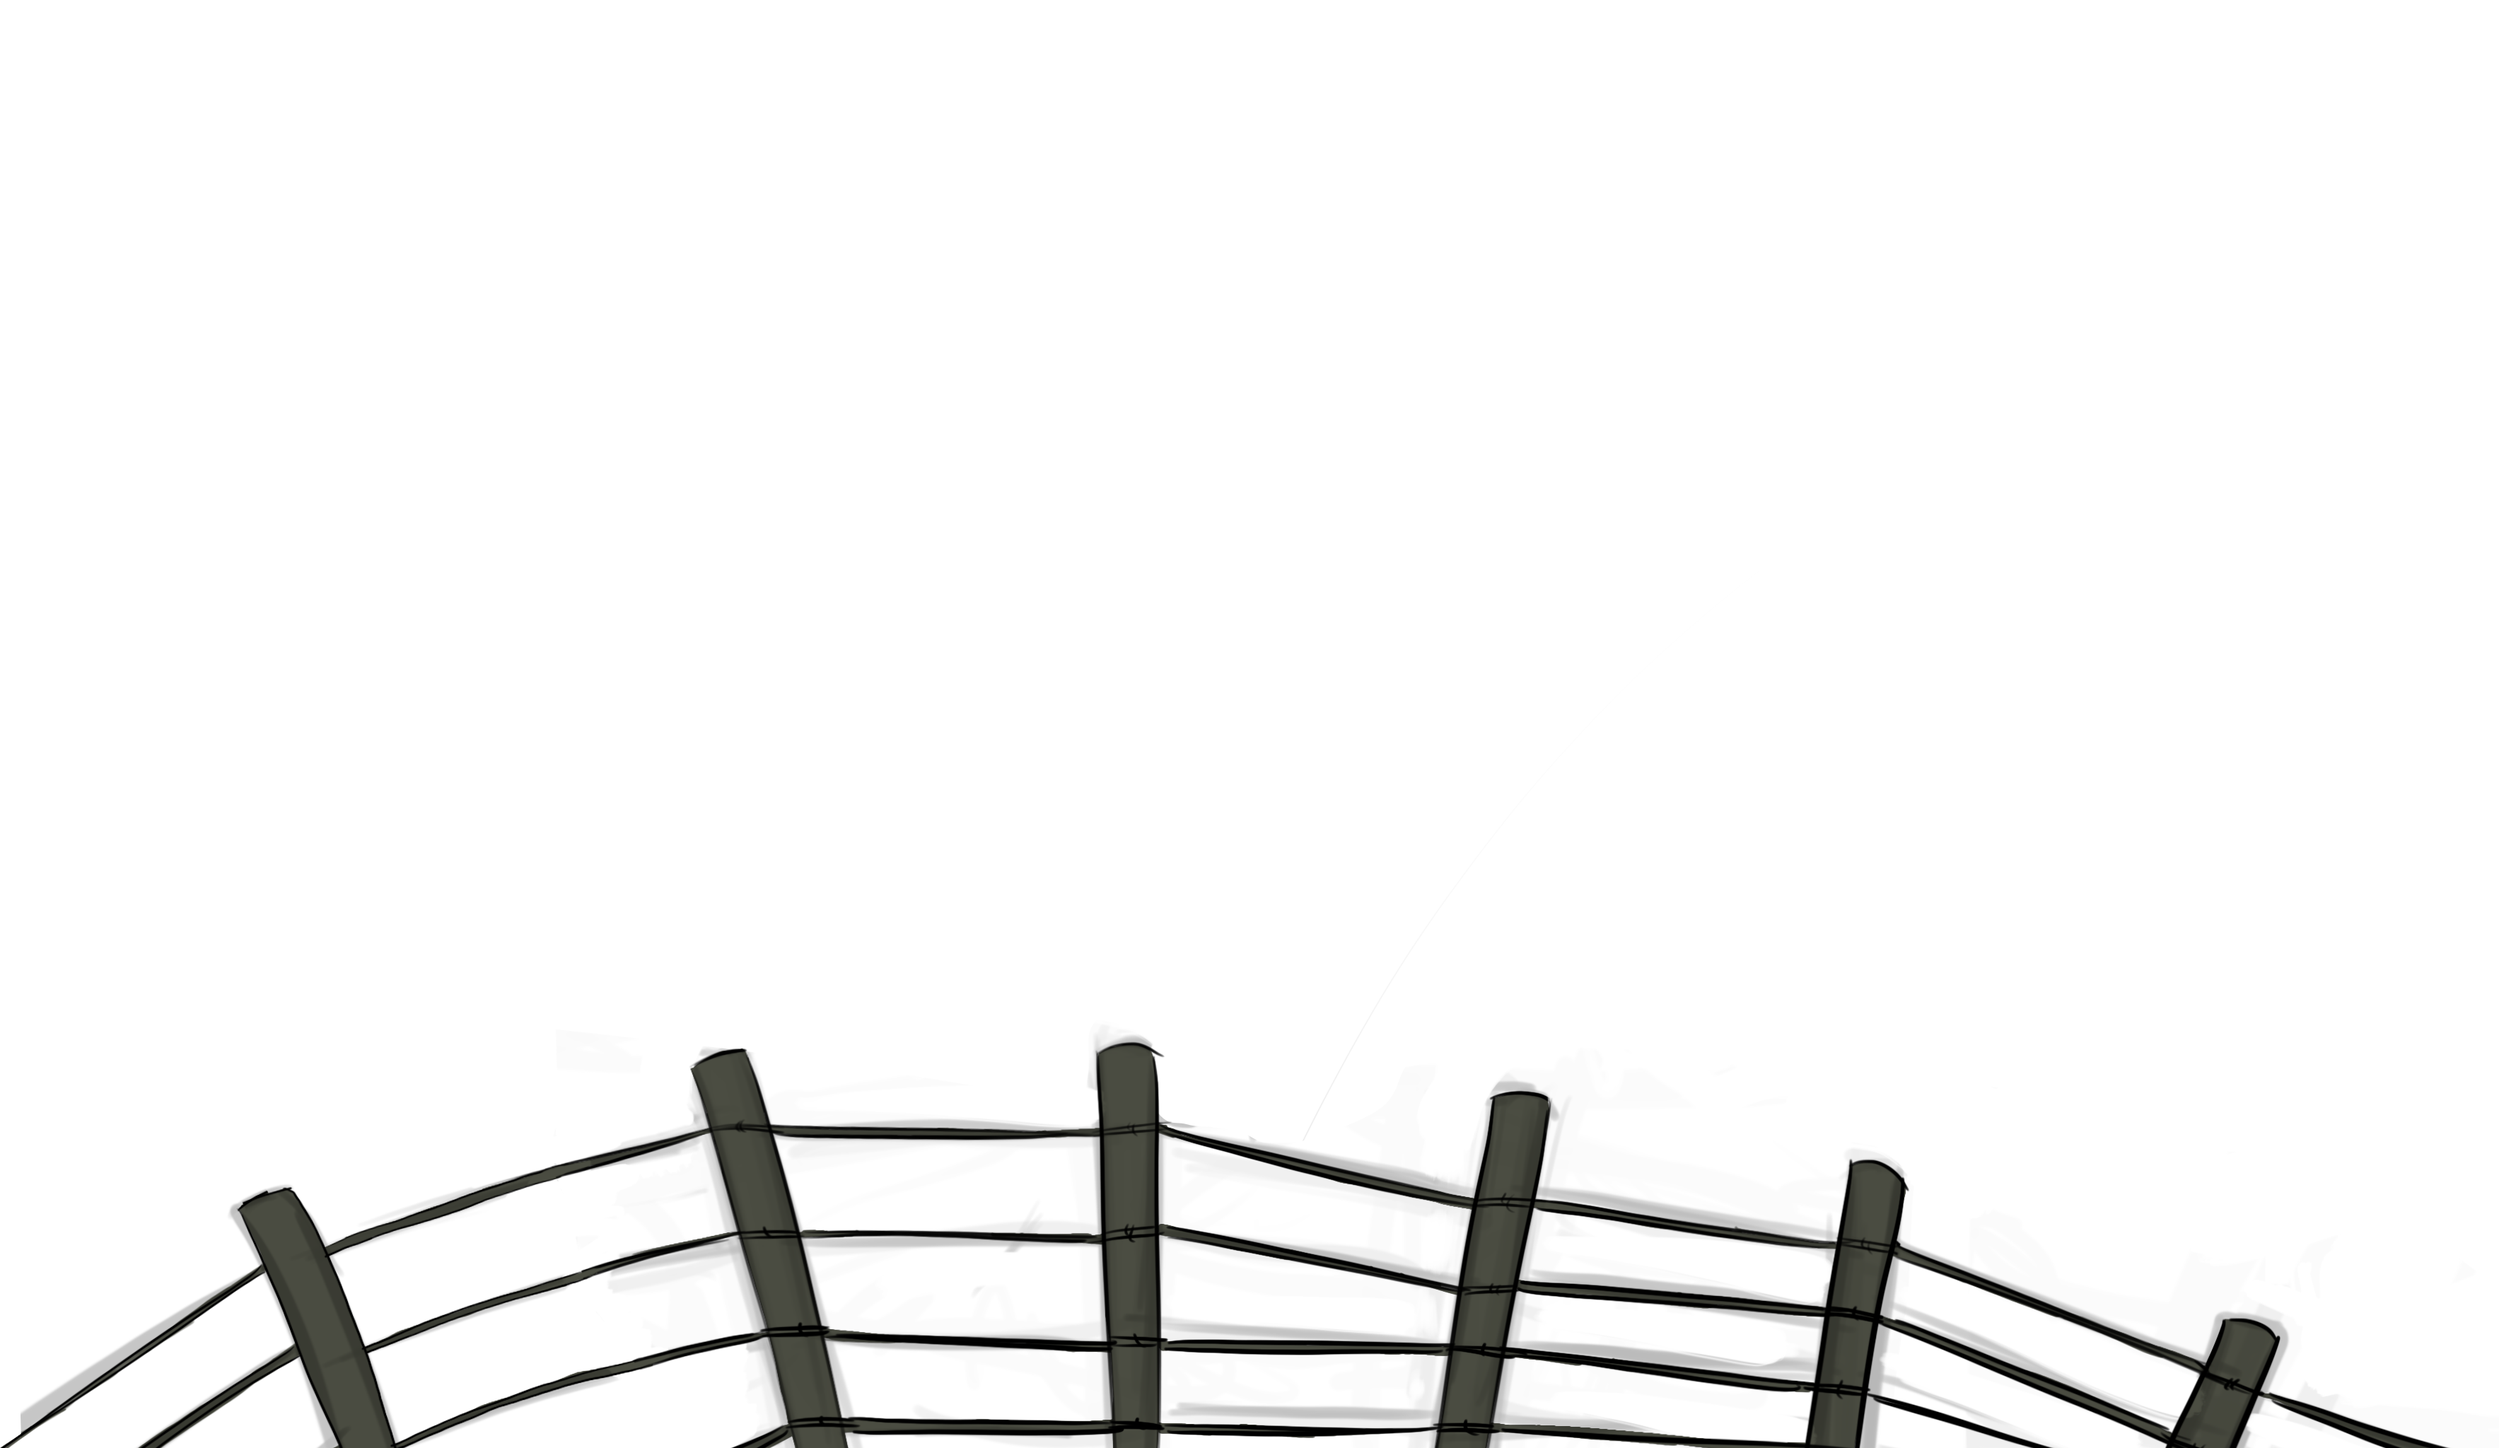
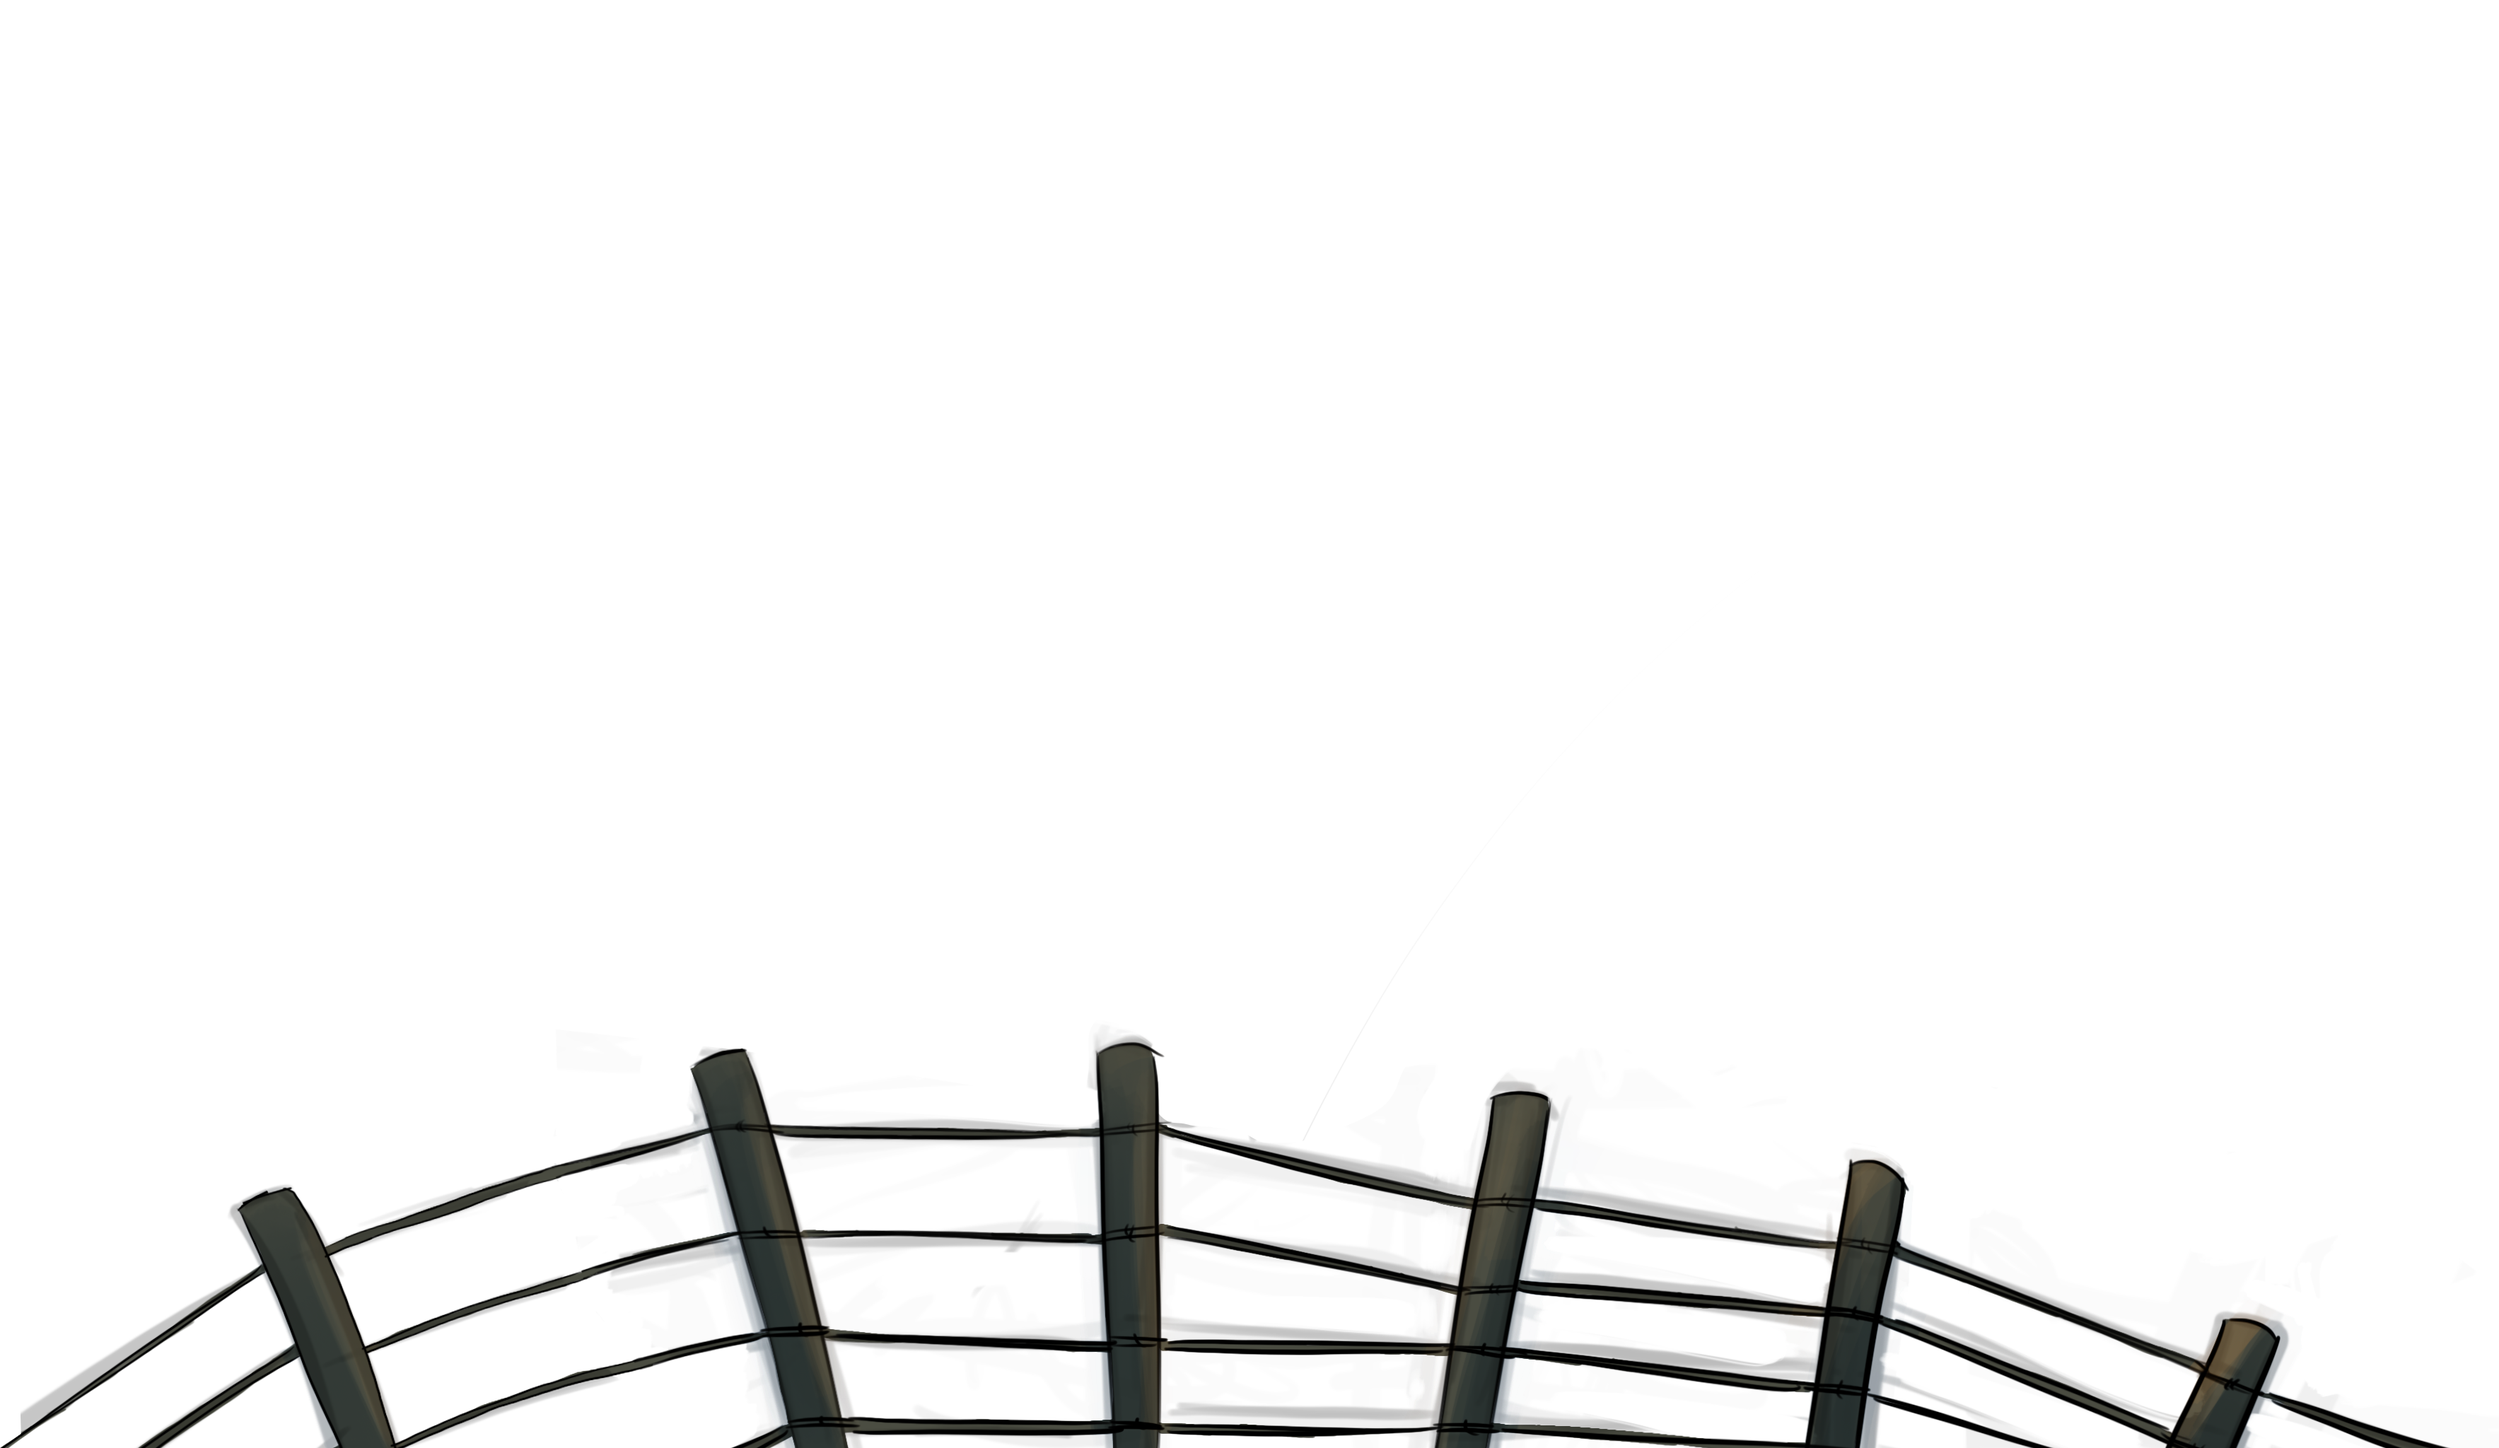
Rough Shading applied

diff --git a/parallaxComic/parallax.html b/parallaxComic/parallax.html
@@ -28,9 +28,9 @@
 				<div id="basicMessage1" class="comicPanelFormat" data-stellar-ratio = "1"> This is Somes Island </div>
 				<img class="parallaxImg" data-stellar-ratio="1" src = "artwork/section1/1.PNG" style="width: 100%">
 				<img class="parallaxImg" data-stellar-ratio="2" src = "artwork/section1/2.PNG" >
-				<img class="parallaxImg" data-stellar-ratio="-1.4" src = "artwork/section1/3.PNG" style="z-index: -2" >
-				<img class="parallaxImg" data-stellar-ratio="-2" src = "artwork/section1/4.PNG" >
-			   	<img class="parallaxImg" data-stellar-ratio="1" src = "artwork/section1/5.PNG" >
+				<!-- <img class="parallaxImg" data-stellar-ratio="-1.4" src = "artwork/section1/3.PNG" style="z-index: -2" >
+				<img class="parallaxImg" data-stellar-ratio="-2" src = "artwork/section1/4.PNG" > -->
+			   	<!-- <img class="parallaxImg" data-stellar-ratio="1" src = "artwork/section1/5.PNG" > -->
 		</div>
 
 
@@ -114,8 +114,8 @@
 				<!-- <div data-stellar-ratio = "-1" style="position:absolute"> <h1> Watch this move with Parallax </h1> </div> -->
 				<img class="parallaxImg" data-stellar-ratio="1" src = "artwork/section1/1.PNG" style="width: 100%">
 				<img class="parallaxImg" data-stellar-ratio="1" src = "artwork/section1/2.PNG" >
-				<img class="parallaxImg" data-stellar-ratio="-1.4" src = "artwork/section1/3.PNG" style="z-index: -2" >
-				<img class="parallaxImg" data-stellar-ratio="-2" src = "artwork/section1/4.PNG" >
+			<!-- 	<img class="parallaxImg" data-stellar-ratio="-1.4" src = "artwork/section1/3.PNG" style="z-index: -2" >
+				<img class="parallaxImg" data-stellar-ratio="-2" src = "artwork/section1/4.PNG" > -->
 			   	<img class="parallaxImg" data-stellar-ratio="1" src = "artwork/section1/5.PNG" >
 		</div>
 
